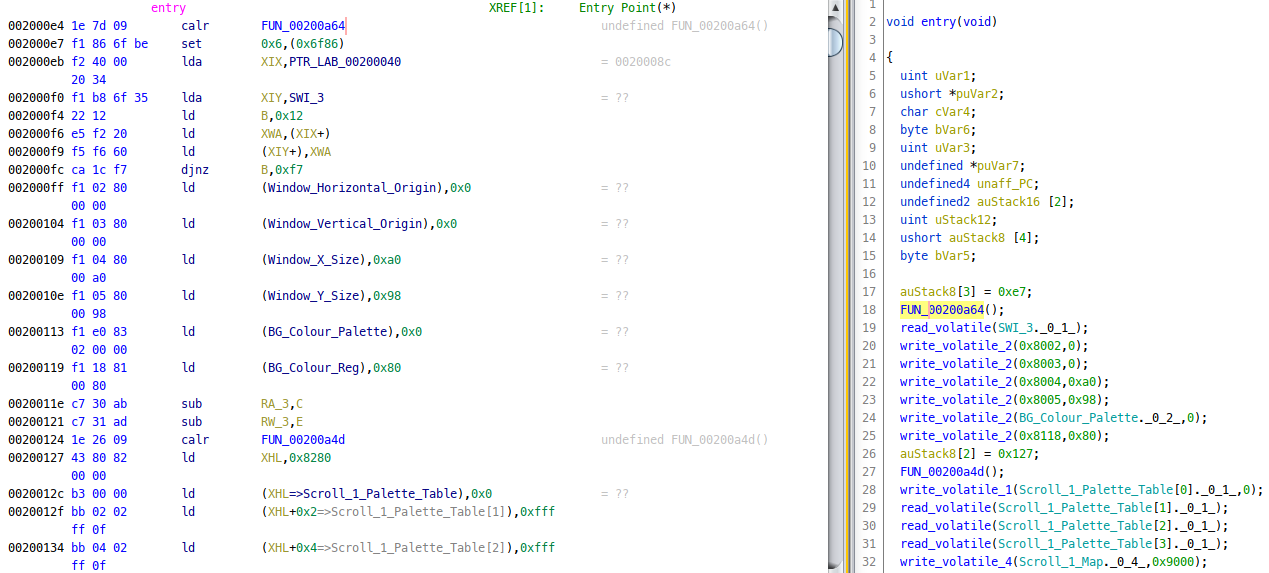
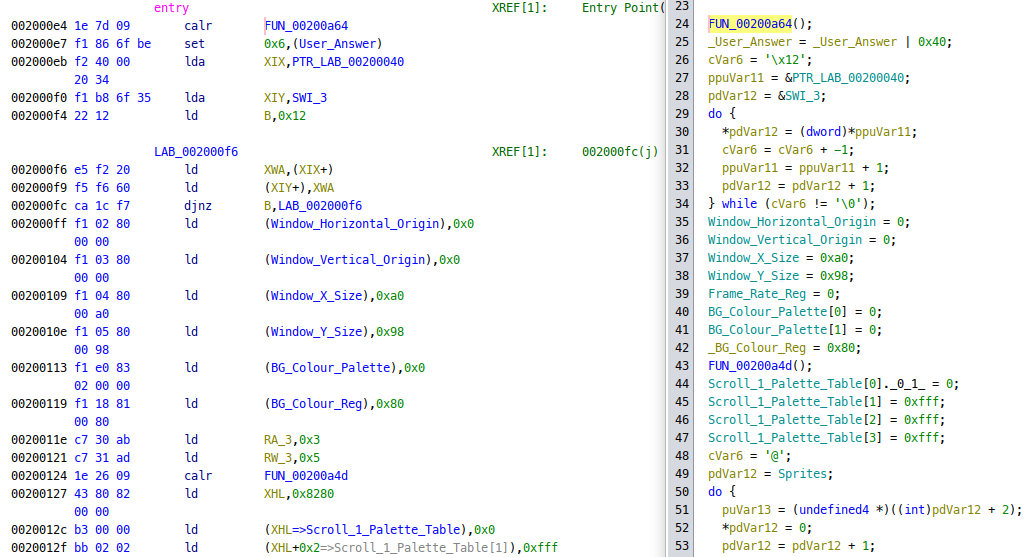
Add BIOS loading; Update decompiled example

diff --git a/src/main/java/neogeopocketloader/NeoGeoPocketLoader.java b/src/main/java/neogeopocketloader/NeoGeoPocketLoader.java
@@ -15,12 +15,16 @@
  */
 package neogeopocketloader;
 
+import java.io.File;
+import java.io.FileInputStream;
 import java.io.IOException;
 import java.io.InputStream;
 import java.util.ArrayList;
 import java.util.Collection;
 import java.util.List;
 
+import docking.widgets.OptionDialog;
+import docking.widgets.filechooser.GhidraFileChooser;
 import ghidra.app.cmd.data.CreateArrayCmd;
 import ghidra.app.util.Option;
 import ghidra.app.util.bin.BinaryReader;
@@ -77,13 +81,32 @@ public class NeoGeoPocketLoader extends AbstractLibrarySupportLoader {
 		
 		InputStream romStream = provider.getInputStream(0);
 		boolean hasRomExtraStream = romStream.available() > 0x200000L;
+		
+		InputStream biosStream = null;
+		int choice = OptionDialog.showOptionNoCancelDialog(
+			null,
+			"BIOS mapping",
+			"Load BIOS file?",
+			"Yes",
+			"No (Just create empty mapping)",
+			OptionDialog.QUESTION_MESSAGE
+		);
+		if (choice == OptionDialog.OPTION_ONE) {
+			GhidraFileChooser chooser = new GhidraFileChooser(null);
+			chooser.setTitle("Open BIOS file");
+			File file = chooser.getSelectedFile(true);
+			if (file != null) {
+				biosStream = new FileInputStream(file);
+			}
+		}
 
 		createSegment(fpa, romStream, "ROM_CART", 0x200000L, Math.min(romStream.available(), 0x1FFFFFL), true, false, true, false, log);
 		if (hasRomExtraStream) {
 			 InputStream romExtraStream = provider.getInputStream(0x200000L);
 			 createSegment(fpa, romExtraStream, "ROM_EXTRA", 0x800000L, Math.min(romExtraStream.available(), 0x1FFFFFL), true, false, true, false, log);
 		}
-		createSegment(fpa, null, "ROM_BIOS",      0xFF0000L, 0x010000L, true, false, true, false, log);
+		createSegment(fpa, biosStream, "ROM_BIOS", 0xFF0000L, 0x010000L, true, false, true, false, log);
+		
 		createSegment(fpa, null, "RAM_INTERNAL",  0x000000L, 0x000100L, true, true, false, true, log);
 		createSegment(fpa, null, "RAM_WORK",      0x000100L, 0x006B00L, true, true, false, true, log);
 		createSegment(fpa, null, "CPU_WORKSPACE", 0x006C00L, 0x000400L, true, true, false, true, log);
